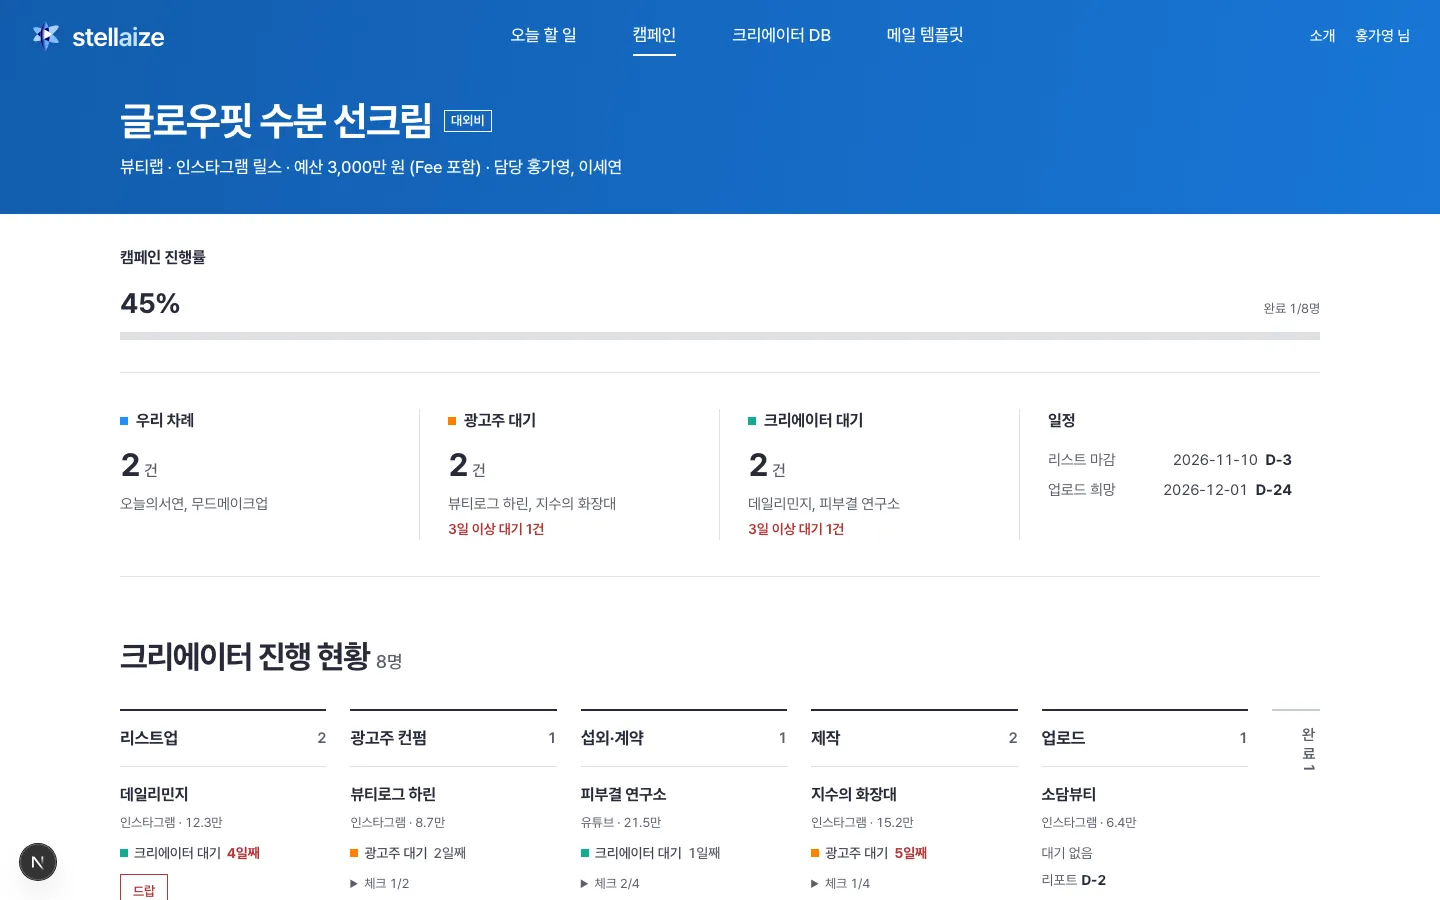
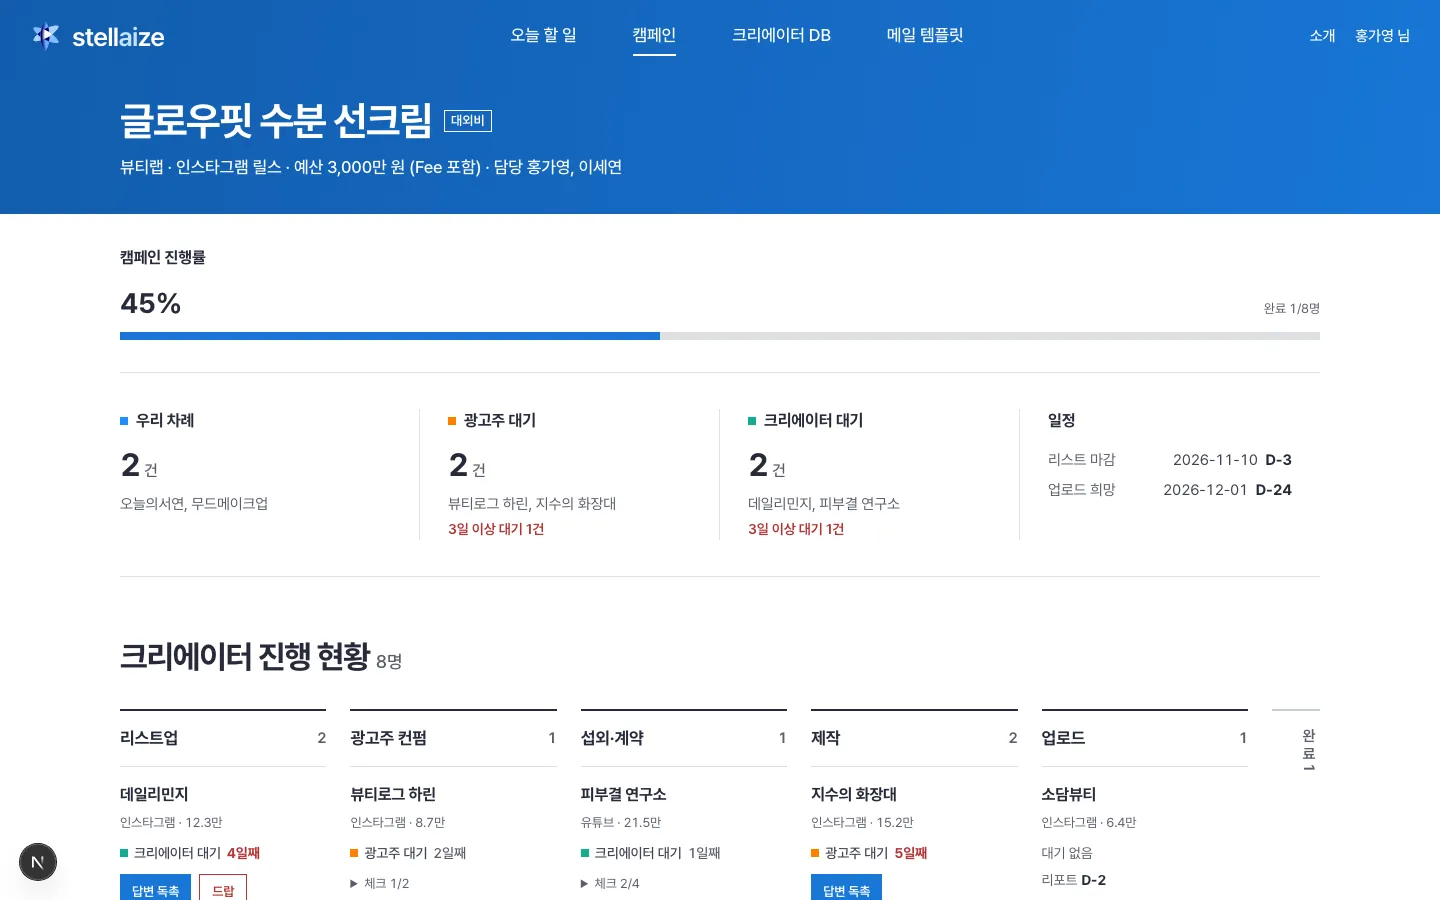
Show 답변 독촉 and 드랍 together for no-reply creators
- 답변 독촉 is now a button that records the reminder date (undoable)
- Creators get both buttons; advertisers get 답변 독촉 only
- Same follow-up block on board cards and 오늘 할 일

diff --git a/lib/dropped.ts b/lib/dropped.ts
@@ -1,43 +1,58 @@
 "use client";
 import { useSyncExternalStore } from "react";
+import { todayKST } from "./date";
 
-// shortcut: dropped campaign-creator ids live in this browser's localStorage until Supabase exists.
-// Board and 오늘 할 일 share it, so a drop on one shows on the other.
-const KEY = "dropped-entries";
-const listeners = new Set<() => void>();
-let cache: string[] | null = null;
-
-function read(): string[] {
-  if (cache) return cache;
-  try {
-    cache = JSON.parse(localStorage.getItem(KEY) ?? "[]");
-  } catch {
-    cache = [];
-  }
-  return cache!;
+// shortcut: drops and reminders live in this browser's localStorage until Supabase exists.
+// Board and 오늘 할 일 share them, so an action on one shows on the other.
+function store<T>(key: string, empty: T) {
+  const listeners = new Set<() => void>();
+  let cache: T | null = null;
+  const read = (): T => {
+    if (cache !== null) return cache;
+    try {
+      cache = JSON.parse(localStorage.getItem(key) ?? "null") ?? empty;
+    } catch {
+      cache = empty;
+    }
+    return cache as T;
+  };
+  const write = (value: T) => {
+    cache = value;
+    try {
+      localStorage.setItem(key, JSON.stringify(value));
+    } catch {
+      /* private mode: keep it in memory for this visit */
+    }
+    listeners.forEach((l) => l());
+  };
+  const subscribe = (l: () => void) => {
+    listeners.add(l);
+    return () => listeners.delete(l);
+  };
+  return { read, write, use: () => useSyncExternalStore(subscribe, read, () => empty) };
 }
 
-function write(ids: string[]) {
-  cache = ids;
-  try {
-    localStorage.setItem(KEY, JSON.stringify(ids));
-  } catch {
-    /* private mode: keep it in memory for this visit */
-  }
-  listeners.forEach((l) => l());
-}
-
-const EMPTY: string[] = [];
-const subscribe = (l: () => void) => {
-  listeners.add(l);
-  return () => listeners.delete(l);
-};
+const dropped = store<string[]>("dropped-entries", []);
+const reminded = store<Record<string, string>>("reminded-entries", {}); // entry id -> date of last reminder
 
 export function useDropped() {
-  const ids = useSyncExternalStore(subscribe, read, () => EMPTY);
+  const ids = dropped.use();
   return {
     dropped: new Set(ids),
-    drop: (id: string) => write([...read().filter((x) => x !== id), id]),
-    restore: (id: string) => write(read().filter((x) => x !== id)),
+    drop: (id: string) => dropped.write([...dropped.read().filter((x) => x !== id), id]),
+    restore: (id: string) => dropped.write(dropped.read().filter((x) => x !== id)),
+  };
+}
+
+export function useReminded() {
+  const map = reminded.use();
+  return {
+    remindedOn: (id: string): string | undefined => map[id],
+    remind: (id: string) => reminded.write({ ...reminded.read(), [id]: todayKST() }),
+    undo: (id: string) => {
+      const next = { ...reminded.read() };
+      delete next[id];
+      reminded.write(next);
+    },
   };
 }

diff --git a/components/TodayList.tsx b/components/TodayList.tsx
@@ -2,8 +2,8 @@
 import { useState } from "react";
 import Link from "next/link";
 import { pageWrap, table } from "./PageBand";
-import { WaitingLine, DdayText, OVERDUE_DAYS } from "./badges";
-import { DropButton } from "./DropButton";
+import { WaitingLine, DdayText } from "./badges";
+import { FollowUp, needsFollowUp } from "./FollowUp";
 import { useDropped } from "@/lib/dropped";
 import type { WaitingOn } from "@/lib/demo";
 
@@ -45,7 +45,7 @@ function Toggle<T extends string>({ label, value, options, onChange }: { label: 
 export function TodayList({ buckets, rows: all, userName }: { buckets: Bucket[]; rows: TodayRow[]; userName: string }) {
   const [scope, setScope] = useState<Scope>("mine");
   const [sort, setSort] = useState<Sort>("kind");
-  const { dropped, drop } = useDropped();
+  const { dropped } = useDropped();
 
   const order = buckets.map((b) => b.key);
   const rows = all
@@ -113,10 +113,8 @@ export function TodayList({ buckets, rows: all, userName }: { buckets: Bucket[];
                       )}
                     </td>
                     <td className={table.td}>
-                      {r.kind === "drop" && r.entryId && r.creator ? (
-                        <DropButton name={r.creator} onDrop={() => drop(r.entryId!)} />
-                      ) : r.kind === "confirm" && r.waitingDays >= OVERDUE_DAYS ? (
-                        <span className="font-semibold text-danger-700">답변 독촉</span>
+                      {r.entryId && r.creator && needsFollowUp(r.waitingOn, r.waitingDays) ? (
+                        <FollowUp entryId={r.entryId} name={r.creator} waitingOn={r.waitingOn} days={r.waitingDays} />
                       ) : (
                         <span className="text-ink-600">—</span>
                       )}

diff --git a/components/FollowUp.tsx b/components/FollowUp.tsx
@@ -1,0 +1,35 @@
+"use client";
+import type { WaitingOn } from "@/lib/demo";
+import { todayKST } from "@/lib/date";
+import { useDropped, useReminded } from "@/lib/dropped";
+import { OVERDUE_DAYS } from "./badges";
+import { DropButton } from "./DropButton";
+
+// No reply for OVERDUE_DAYS+: chase anyone (답변 독촉); a creator can also be dropped (planner: no reply → leave them out).
+export function needsFollowUp(waitingOn: WaitingOn | null, days: number) {
+  return (waitingOn === "creator" || waitingOn === "advertiser") && days >= OVERDUE_DAYS;
+}
+
+export function FollowUp({ entryId, name, waitingOn, days }: { entryId: string; name: string; waitingOn: WaitingOn | null; days: number }) {
+  const { drop } = useDropped();
+  const { remindedOn, remind, undo } = useReminded();
+  if (!needsFollowUp(waitingOn, days)) return null;
+  const on = remindedOn(entryId);
+  return (
+    <div className="flex flex-wrap items-center gap-2">
+      {on ? (
+        <span className="flex min-h-9 items-center gap-2 text-[13px] text-ink-800">
+          <b className="font-semibold">{on === todayKST() ? "오늘 독촉함" : `${on.slice(5).replace("-", "/")} 독촉함`}</b>
+          <button type="button" onClick={() => undo(entryId)} className="text-ink-600 underline underline-offset-4 hover:text-primary-600">
+            취소
+          </button>
+        </span>
+      ) : (
+        <button type="button" onClick={() => remind(entryId)} className="min-h-9 bg-primary-600 px-3 text-[13px] font-semibold text-white hover:bg-primary-700">
+          답변 독촉
+        </button>
+      )}
+      {waitingOn === "creator" && <DropButton name={name} onDrop={() => drop(entryId)} />}
+    </div>
+  );
+}

diff --git a/components/CreatorCard.tsx b/components/CreatorCard.tsx
@@ -1,15 +1,14 @@
 "use client";
 import { useState } from "react";
 import type { CampaignCreator } from "@/lib/demo";
-import { WaitingLine, DdayLine, canDrop } from "./badges";
-import { DropButton } from "./DropButton";
+import { WaitingLine, DdayLine } from "./badges";
+import { FollowUp } from "./FollowUp";
 
 // Incross board row: no box, separated by a 1px line.
-export function CreatorCard({ cc, waitingDays, dday, onDrop, onRestore }: {
+export function CreatorCard({ cc, waitingDays, dday, onRestore }: {
   cc: CampaignCreator;
   waitingDays: number;
   dday: { label: string; days: number } | null;
-  onDrop?: () => void;
   onRestore?: () => void;
 }) {
   // shortcut: checks live in component state only, lost on reload. Save to Supabase when it exists.
@@ -23,9 +22,9 @@ export function CreatorCard({ cc, waitingDays, dday, onDrop, onRestore }: {
       </p>
       <WaitingLine on={cc.waitingOn} days={waitingDays} />
       {dday && <DdayLine label={dday.label} days={dday.days} />}
-      {onDrop && canDrop(cc.waitingOn, waitingDays) && (
-        <div className="pt-1">
-          <DropButton name={cc.name} onDrop={onDrop} />
+      {!onRestore && (
+        <div className="pt-1 empty:hidden">
+          <FollowUp entryId={cc.id} name={cc.name} waitingOn={cc.waitingOn} days={waitingDays} />
         </div>
       )}
       {onRestore && (

diff --git a/components/KanbanBoard.tsx b/components/KanbanBoard.tsx
@@ -12,7 +12,7 @@ const head = "flex h-14 items-center justify-between border-b border-line";
 
 export function KanbanBoard({ cards: all }: { cards: BoardCard[] }) {
   const [showDone, setShowDone] = useState(false);
-  const { dropped, drop, restore } = useDropped();
+  const { dropped, restore } = useDropped();
   const cards = all.filter((c) => !dropped.has(c.cc.id));
   const out = all.filter((c) => dropped.has(c.cc.id));
   const done = cards.filter((c) => c.cc.stage === "완료");
@@ -27,7 +27,7 @@ export function KanbanBoard({ cards: all }: { cards: BoardCard[] }) {
               <span className="text-[17px] font-bold text-ink-900">{stage}</span>
               <span className="text-[15px] font-semibold tabular-nums text-ink-600">{list.length}</span>
             </h3>
-            {list.map((c) => <CreatorCard key={c.cc.id} {...c} onDrop={() => drop(c.cc.id)} />)}
+            {list.map((c) => <CreatorCard key={c.cc.id} {...c} />)}
             {list.length === 0 && <p className="py-8 text-center text-[14px] text-ink-600">진행 중인 건이 없습니다</p>}
           </section>
         );

diff --git a/components/badges.tsx b/components/badges.tsx
@@ -1,9 +1,6 @@
 import type { WaitingOn } from "@/lib/demo";
 
 export const OVERDUE_DAYS = 3; // waiting this long or more turns red. Team decides.
-/** A creator who has not answered this long can be dropped (planner: no reply → leave them out). */
-export const canDrop = (waitingOn: WaitingOn | null, days: number) => waitingOn === "creator" && days >= OVERDUE_DAYS;
-
 export const URGENT_DAYS = 1; // D-1, D-Day and past turn red; sooner-than-a-week is bold ink. Team decides.
 
 // Incross-style status: a small square bullet + text, no pills. Square is the party color; red only for problems.

diff --git a/README.md b/README.md
@@ -25,7 +25,11 @@
 
 **진행률 계산:** 크리에이터마다 단계 점수(리스트업 0% → 광고주 컨펌 20% → 섭외·계약 40% → 제작 60% → 업로드 80% → 완료 100%)를 매겨 평균을 낸다. 옆에 완료 단계까지 간 인원("완료 1/8명")을 함께 적는다.
 
-**드랍:** 크리에이터가 3일 넘게 답이 없으면(기획자 답변: 회신 없으면 빼고 제안) 칸반 카드와 오늘 할 일의 "드랍 후보"에 **[드랍]** 버튼이 나온다. 누르면 한 번 더 확인한 뒤 빼고, 뺀 크리에이터는 칸반 맨 오른쪽 "드랍" 칸에 모여 **되돌리기**할 수 있다. 광고주가 3일 넘게 답이 없으면 "답변 독촉"으로 표시한다. 지금은 예시 단계라 드랍한 내용이 이 브라우저에만 저장된다.
+**답변 독촉·드랍:** 3일 넘게 답이 없으면 칸반 카드와 오늘 할 일에 버튼이 나온다.
+- 크리에이터: **[답변 독촉] [드랍]** 둘 다. 드랍은 한 번 더 확인한 뒤 빼고(기획자 답변: 회신 없으면 빼고 제안), 뺀 크리에이터는 칸반 맨 오른쪽 "드랍" 칸에서 **되돌리기**할 수 있다.
+- 광고주: **[답변 독촉]**만.
+- 답변 독촉을 누르면 "오늘 독촉함"으로 기록된다(메일 연동 전이라 메일은 직접 보낸다).
+- 지금은 예시 단계라 독촉·드랍 기록이 이 브라우저에만 저장된다.
 
 **"오늘 할 일"과 "캠페인"의 차이:** 오늘 할 일은 여러 캠페인을 가로질러 **할 일 위주**로 본다(아침에 여는 화면). 캠페인은 캠페인을 **하나씩** 골라 들어가서 크리에이터 전원의 진행 상황을 본다.
 
